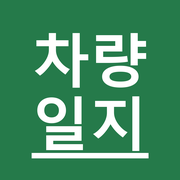
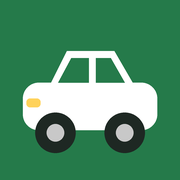
아이콘 집 · 자동차, 이름 나에안식 · 차량일지, 주소 하나로 두 개 이어서 설치(안드로이드 설치 버튼 · 아이폰 안내)

diff --git a/jamsil/index.html b/jamsil/index.html
@@ -3,47 +3,73 @@
 <head>
 <meta charset="utf-8">
 <meta name="viewport" content="width=device-width, initial-scale=1">
-<title>나에안식 잠실 통합업무시스템</title>
-<meta name="apple-mobile-web-app-title" content="통합업무">
-<meta name="application-name" content="통합업무">
+<title>나에안식</title>
+<meta name="apple-mobile-web-app-title" content="나에안식">
+<meta name="application-name" content="나에안식">
 <meta name="theme-color" content="#1f4e79">
 <link rel="apple-touch-icon" href="apple-touch-icon.png">
 <link rel="icon" type="image/png" sizes="192x192" href="icon-192.png">
 <link rel="manifest" href="manifest.json">
 <script>
-  // 홈 화면 아이콘으로 열면(?open) 바로 앱으로. 이 안내 페이지를 처음 열면 주소에 ?open 을 붙여 두어,
-  // 아이폰 「홈 화면에 추가」도 ?open 주소로 저장되게 한다 (안드로이드는 manifest 의 start_url)
+  // 홈 화면 아이콘으로 열면(?open) 바로 앱으로. 설치 안내로 열면 주소에 ?open 을 붙여 두어 아이폰 「홈 화면에 추가」도 ?open 으로 저장되게
   var APP = 'https://script.google.com/a/macros/gscsupport.org/s/AKfycbyXpPF1653Jcdb7gTh4Efq5zx_-NSma935vyzxfqtKJZkl9aTMh83iYis9wJRcfE9nD/exec';
   if (/[?&]open\b/.test(location.search)) location.replace(APP);
   else if (history.replaceState) history.replaceState(null, '', location.pathname + '?open');
+  if ('serviceWorker' in navigator) navigator.serviceWorker.register('sw.js').catch(function () { });
 </script>
 <style>
   body { font-family: -apple-system, "Malgun Gothic", "Apple SD Gothic Neo", sans-serif; margin: 0; background: #f4f6f9; color: #1f2933; }
-  .wrap { max-width: 460px; margin: 0 auto; padding: 28px 18px 40px; text-align: center; }
-  img.ic { width: 96px; height: 96px; border-radius: 22px; box-shadow: 0 4px 14px rgba(0,0,0,.15); }
-  h1 { font-size: 22px; margin: 14px 0 4px; }
-  .sub { color: #5b6773; font-size: 14px; margin: 0 0 20px; }
-  a.go { display: block; background: #1f4e79; color: #fff; text-decoration: none; font-weight: 700; font-size: 17px; padding: 14px; border-radius: 12px; }
-  .how { text-align: left; background: #fff; border: 1px solid #dde3ea; border-radius: 12px; padding: 12px 16px; margin-top: 18px; font-size: 14.5px; line-height: 1.6; }
-  .how h2 { font-size: 15px; margin: 6px 0 4px; }
+  .wrap { max-width: 460px; margin: 0 auto; padding: 24px 18px 40px; text-align: center; }
+  .steps { display: flex; justify-content: center; gap: 8px; margin-bottom: 16px; font-size: 13px; }
+  .steps span { padding: 4px 12px; border-radius: 999px; background: #e3e8ee; color: #5b6773; }
+  .steps span.on { background: #1f4e79; color: #fff; font-weight: 700; }
+  .steps span.done { background: #c8ead6; color: #1c6b3d; }
+  img.ic { width: 104px; height: 104px; border-radius: 24px; box-shadow: 0 4px 14px rgba(0,0,0,.15); }
+  h1 { font-size: 23px; margin: 12px 0 4px; }
+  .sub { color: #5b6773; font-size: 14px; margin: 0 0 18px; }
+  button.go, a.go { display: block; width: 100%; box-sizing: border-box; background: #1f4e79; color: #fff; border: 0; text-decoration: none; font-weight: 700; font-size: 18px; padding: 15px; border-radius: 12px; cursor: pointer; }
+  a.next { display: block; margin-top: 10px; padding: 13px; border-radius: 12px; border: 2px solid #1f4e79; color: #1f4e79; font-weight: 700; text-decoration: none; }
+  .how { text-align: left; background: #fff; border: 1px solid #dde3ea; border-radius: 12px; padding: 12px 16px; margin-top: 16px; font-size: 14.5px; line-height: 1.6; }
+  .how h2 { font-size: 15px; margin: 4px 0 2px; }
   .how ol { margin: 0 0 6px; padding-left: 20px; }
+  .ok { color: #1c6b3d; font-weight: 700; margin-top: 10px; }
   .note { color: #7b8794; font-size: 12.5px; margin-top: 14px; }
+  [hidden] { display: none !important; }
 </style>
 </head>
 <body>
 <div class="wrap">
+  <div class="steps"><span class="on">① 나에안식</span><span class="">② 차량일지</span></div>
   <img class="ic" src="icon-192.png" alt="">
-  <h1>나에안식 잠실 통합업무시스템</h1>
-  <p class="sub">휴대폰 홈 화면에 아이콘으로 저장해 두세요.</p>
-  <a class="go" href="https://script.google.com/a/macros/gscsupport.org/s/AKfycbyXpPF1653Jcdb7gTh4Efq5zx_-NSma935vyzxfqtKJZkl9aTMh83iYis9wJRcfE9nD/exec">지금 열기</a>
-  <div class="how">
-    <h2>📱 안드로이드 (크롬)</h2>
-    <ol><li>오른쪽 위 <b>⋮</b> 누르기</li><li><b>「홈 화면에 추가」</b>(또는 「앱 설치」) → <b>추가</b></li></ol>
-    <h2>🍎 아이폰 (사파리)</h2>
-    <ol><li>아래 가운데 <b>공유 버튼(□↑)</b> 누르기</li><li><b>「홈 화면에 추가」</b> → 오른쪽 위 <b>추가</b></li></ol>
-    홈 화면의 <b>「통합업무」</b> 아이콘을 누르면 바로 열립니다.
+  <h1>나에안식</h1>
+  <p class="sub">나에안식 잠실 통합업무시스템</p>
+  <button type="button" class="go" id="inst" hidden>📲 홈 화면에 설치</button>
+  <div class="ok" id="done" hidden>✅ 설치했어요!</div>
+  <a class="next" href="https://jamsilmb01-ship-it.github.io/jamsil-shortcuts/car/">다음 ② 차량일지 설치 →</a>
+  <div class="how" id="manual">
+    <h2>📱 버튼이 안 보이면 (아이폰 · 다른 브라우저)</h2>
+    <ol>
+      <li>아이폰 사파리: 아래 가운데 <b>공유(□↑)</b> → <b>「홈 화면에 추가」</b> → <b>추가</b></li>
+      <li>안드로이드: 오른쪽 위 <b>⋮</b> → <b>「홈 화면에 추가」</b>(또는 「앱 설치」)</li>
+    </ol>
+    그다음 위의 <b>다음 ② 차량일지 설치 →</b>을 누르세요.
   </div>
   <p class="note">기관 계정(gscsupport.org)으로 로그인해야 열립니다. 이 페이지는 앱으로 넘겨 주기만 하고 아무것도 저장하지 않습니다.</p>
 </div>
+<script>
+  // 안드로이드 크롬: 설치 버튼 한 번으로 홈 화면에 (브라우저가 허락할 때만 버튼이 보임). 설치되면 다음 단계로
+  var ask = null;
+  window.addEventListener('beforeinstallprompt', function (e) { e.preventDefault(); ask = e; document.getElementById('inst').hidden = false; });
+  document.getElementById('inst').onclick = function () {
+    if (!ask) return;
+    ask.prompt();
+    ask.userChoice.then(function (c) { if (c && c.outcome === 'accepted') installed(); ask = null; document.getElementById('inst').hidden = true; });
+  };
+  window.addEventListener('appinstalled', installed);
+  function installed() {
+    document.getElementById('done').hidden = false;
+    setTimeout(function () { location.href = 'https://jamsilmb01-ship-it.github.io/jamsil-shortcuts/car/'; }, 1500);
+  }
+</script>
 </body>
 </html>

diff --git a/car/index.html b/car/index.html
@@ -3,7 +3,7 @@
 <head>
 <meta charset="utf-8">
 <meta name="viewport" content="width=device-width, initial-scale=1">
-<title>나에안식 차량 운행일지</title>
+<title>차량일지</title>
 <meta name="apple-mobile-web-app-title" content="차량일지">
 <meta name="application-name" content="차량일지">
 <meta name="theme-color" content="#257a4a">
@@ -11,39 +11,65 @@
 <link rel="icon" type="image/png" sizes="192x192" href="icon-192.png">
 <link rel="manifest" href="manifest.json">
 <script>
-  // 홈 화면 아이콘으로 열면(?open) 바로 앱으로. 이 안내 페이지를 처음 열면 주소에 ?open 을 붙여 두어,
-  // 아이폰 「홈 화면에 추가」도 ?open 주소로 저장되게 한다 (안드로이드는 manifest 의 start_url)
+  // 홈 화면 아이콘으로 열면(?open) 바로 앱으로. 설치 안내로 열면 주소에 ?open 을 붙여 두어 아이폰 「홈 화면에 추가」도 ?open 으로 저장되게
   var APP = 'https://script.google.com/a/macros/gscsupport.org/s/AKfycbyWBPOMTDsHJAvTrzyhhL7ucnZKRUTfi-W0Df4ViefqFMfe-RC5YSUxYCw4vDWI7NHUTw/exec';
   if (/[?&]open\b/.test(location.search)) location.replace(APP);
   else if (history.replaceState) history.replaceState(null, '', location.pathname + '?open');
+  if ('serviceWorker' in navigator) navigator.serviceWorker.register('sw.js').catch(function () { });
 </script>
 <style>
   body { font-family: -apple-system, "Malgun Gothic", "Apple SD Gothic Neo", sans-serif; margin: 0; background: #f4f6f9; color: #1f2933; }
-  .wrap { max-width: 460px; margin: 0 auto; padding: 28px 18px 40px; text-align: center; }
-  img.ic { width: 96px; height: 96px; border-radius: 22px; box-shadow: 0 4px 14px rgba(0,0,0,.15); }
-  h1 { font-size: 22px; margin: 14px 0 4px; }
-  .sub { color: #5b6773; font-size: 14px; margin: 0 0 20px; }
-  a.go { display: block; background: #257a4a; color: #fff; text-decoration: none; font-weight: 700; font-size: 17px; padding: 14px; border-radius: 12px; }
-  .how { text-align: left; background: #fff; border: 1px solid #dde3ea; border-radius: 12px; padding: 12px 16px; margin-top: 18px; font-size: 14.5px; line-height: 1.6; }
-  .how h2 { font-size: 15px; margin: 6px 0 4px; }
+  .wrap { max-width: 460px; margin: 0 auto; padding: 24px 18px 40px; text-align: center; }
+  .steps { display: flex; justify-content: center; gap: 8px; margin-bottom: 16px; font-size: 13px; }
+  .steps span { padding: 4px 12px; border-radius: 999px; background: #e3e8ee; color: #5b6773; }
+  .steps span.on { background: #257a4a; color: #fff; font-weight: 700; }
+  .steps span.done { background: #c8ead6; color: #1c6b3d; }
+  img.ic { width: 104px; height: 104px; border-radius: 24px; box-shadow: 0 4px 14px rgba(0,0,0,.15); }
+  h1 { font-size: 23px; margin: 12px 0 4px; }
+  .sub { color: #5b6773; font-size: 14px; margin: 0 0 18px; }
+  button.go, a.go { display: block; width: 100%; box-sizing: border-box; background: #257a4a; color: #fff; border: 0; text-decoration: none; font-weight: 700; font-size: 18px; padding: 15px; border-radius: 12px; cursor: pointer; }
+  a.next { display: block; margin-top: 10px; padding: 13px; border-radius: 12px; border: 2px solid #257a4a; color: #257a4a; font-weight: 700; text-decoration: none; }
+  .how { text-align: left; background: #fff; border: 1px solid #dde3ea; border-radius: 12px; padding: 12px 16px; margin-top: 16px; font-size: 14.5px; line-height: 1.6; }
+  .how h2 { font-size: 15px; margin: 4px 0 2px; }
   .how ol { margin: 0 0 6px; padding-left: 20px; }
+  .ok { color: #1c6b3d; font-weight: 700; margin-top: 10px; }
   .note { color: #7b8794; font-size: 12.5px; margin-top: 14px; }
+  [hidden] { display: none !important; }
 </style>
 </head>
 <body>
 <div class="wrap">
+  <div class="steps"><span class="done">① 나에안식</span><span class="on">② 차량일지</span></div>
   <img class="ic" src="icon-192.png" alt="">
-  <h1>나에안식 차량 운행일지</h1>
-  <p class="sub">휴대폰 홈 화면에 아이콘으로 저장해 두세요.</p>
-  <a class="go" href="https://script.google.com/a/macros/gscsupport.org/s/AKfycbyWBPOMTDsHJAvTrzyhhL7ucnZKRUTfi-W0Df4ViefqFMfe-RC5YSUxYCw4vDWI7NHUTw/exec">지금 열기</a>
-  <div class="how">
-    <h2>📱 안드로이드 (크롬)</h2>
-    <ol><li>오른쪽 위 <b>⋮</b> 누르기</li><li><b>「홈 화면에 추가」</b>(또는 「앱 설치」) → <b>추가</b></li></ol>
-    <h2>🍎 아이폰 (사파리)</h2>
-    <ol><li>아래 가운데 <b>공유 버튼(□↑)</b> 누르기</li><li><b>「홈 화면에 추가」</b> → 오른쪽 위 <b>추가</b></li></ol>
-    홈 화면의 <b>「차량일지」</b> 아이콘을 누르면 바로 열립니다.
+  <h1>차량일지</h1>
+  <p class="sub">나에안식 차량 운행일지</p>
+  <button type="button" class="go" id="inst" hidden>📲 홈 화면에 설치</button>
+  <div class="ok" id="done" hidden>✅ 설치했어요!</div>
+  <a class="next" href="https://jamsilmb01-ship-it.github.io/jamsil-shortcuts/jamsil/">← ① 나에안식으로 돌아가기</a>
+  <div class="how" id="manual">
+    <h2>📱 버튼이 안 보이면 (아이폰 · 다른 브라우저)</h2>
+    <ol>
+      <li>아이폰 사파리: 아래 가운데 <b>공유(□↑)</b> → <b>「홈 화면에 추가」</b> → <b>추가</b></li>
+      <li>안드로이드: 오른쪽 위 <b>⋮</b> → <b>「홈 화면에 추가」</b>(또는 「앱 설치」)</li>
+    </ol>
+    그다음 위의 <b>← ① 나에안식으로 돌아가기</b>을 누르세요.
   </div>
   <p class="note">기관 계정(gscsupport.org)으로 로그인해야 열립니다. 이 페이지는 앱으로 넘겨 주기만 하고 아무것도 저장하지 않습니다.</p>
 </div>
+<script>
+  // 안드로이드 크롬: 설치 버튼 한 번으로 홈 화면에 (브라우저가 허락할 때만 버튼이 보임). 설치되면 다음 단계로
+  var ask = null;
+  window.addEventListener('beforeinstallprompt', function (e) { e.preventDefault(); ask = e; document.getElementById('inst').hidden = false; });
+  document.getElementById('inst').onclick = function () {
+    if (!ask) return;
+    ask.prompt();
+    ask.userChoice.then(function (c) { if (c && c.outcome === 'accepted') installed(); ask = null; document.getElementById('inst').hidden = true; });
+  };
+  window.addEventListener('appinstalled', installed);
+  function installed() {
+    document.getElementById('done').hidden = false;
+    document.querySelector('.steps span.on').className = 'done';
+  }
+</script>
 </body>
 </html>

diff --git a/index.html b/index.html
@@ -1,1 +1,1 @@
-<!doctype html><meta charset="utf-8"><meta name="viewport" content="width=device-width, initial-scale=1"><title>나에안식 잠실 바로가기</title><body style="font-family:sans-serif;max-width:420px;margin:30px auto;padding:0 18px"><h2>나에안식 잠실 바로가기</h2><p><a href="jamsil/" style="display:flex;align-items:center;gap:12px;text-decoration:none;color:#1f2933;font-size:18px;font-weight:700"><img src="jamsil/icon-192.png" width="56" height="56" style="border-radius:12px">나에안식 잠실 통합업무시스템</a></p><p><a href="car/" style="display:flex;align-items:center;gap:12px;text-decoration:none;color:#1f2933;font-size:18px;font-weight:700"><img src="car/icon-192.png" width="56" height="56" style="border-radius:12px">나에안식 차량 운행일지</a></p><p style="color:#7b8794;font-size:13px">누른 뒤 안내대로 홈 화면에 추가하세요.</p></body>
+<!doctype html><meta charset="utf-8"><title>나에안식 바로가기</title><script>location.replace("https://jamsilmb01-ship-it.github.io/jamsil-shortcuts/jamsil/");</script><a href="jamsil/">나에안식 바로가기 설치 →</a>

diff --git a/car/sw.js b/car/sw.js
@@ -1,0 +1,3 @@
+self.addEventListener('install', function () { self.skipWaiting(); });
+self.addEventListener('activate', function (e) { e.waitUntil(self.clients.claim()); });
+self.addEventListener('fetch', function (e) { e.respondWith(fetch(e.request)); });

diff --git a/jamsil/sw.js b/jamsil/sw.js
@@ -1,0 +1,3 @@
+self.addEventListener('install', function () { self.skipWaiting(); });
+self.addEventListener('activate', function (e) { e.waitUntil(self.clients.claim()); });
+self.addEventListener('fetch', function (e) { e.respondWith(fetch(e.request)); });

diff --git a/build.py b/build.py
@@ -1,9 +1,13 @@
-# 바로가기 페이지 만들기: python build.py → jamsil/ · car/ 의 index.html · manifest.json
+# 바로가기 페이지: python build.py → jamsil/ · car/ (index.html · manifest.json · sw.js) + 맨 위 index.html(① 로 보냄)
+# 주소 하나(맨 위)로 ① 나에안식 → ② 차량일지 를 이어서 설치 (휴대폰은 설치 버튼 한 번에 앱 하나만 허락)
 import json
+BASE = 'https://jamsilmb01-ship-it.github.io/jamsil-shortcuts/'
 APPS = {
-  'jamsil': {'TITLE': '나에안식 잠실 통합업무시스템', 'SHORT': '통합업무', 'COLOR': '#1f4e79',
+  'jamsil': {'TITLE': '나에안식 잠실 통합업무시스템', 'SHORT': '나에안식', 'COLOR': '#1f4e79', 'S1': 'on', 'S2': '',
+             'NEXT': BASE + 'car/', 'NEXTLABEL': '다음 ② 차량일지 설치 →', 'AFTER': "setTimeout(function () { location.href = '" + BASE + "car/'; }, 1500);",
              'URL': 'https://script.google.com/a/macros/gscsupport.org/s/AKfycbyXpPF1653Jcdb7gTh4Efq5zx_-NSma935vyzxfqtKJZkl9aTMh83iYis9wJRcfE9nD/exec'},
-  'car':    {'TITLE': '나에안식 차량 운행일지', 'SHORT': '차량일지', 'COLOR': '#257a4a',
+  'car':    {'TITLE': '나에안식 차량 운행일지', 'SHORT': '차량일지', 'COLOR': '#257a4a', 'S1': 'done', 'S2': 'on',
+             'NEXT': BASE + 'jamsil/', 'NEXTLABEL': '← ① 나에안식으로 돌아가기', 'AFTER': "document.querySelector('.steps span.on').className = 'done';",
              'URL': 'https://script.google.com/a/macros/gscsupport.org/s/AKfycbyWBPOMTDsHJAvTrzyhhL7ucnZKRUTfi-W0Df4ViefqFMfe-RC5YSUxYCw4vDWI7NHUTw/exec'},
 }
 tpl = open('page.tpl', encoding='utf-8').read()
@@ -11,12 +15,15 @@ for k, c in APPS.items():
   h = tpl
   for n, v in c.items(): h = h.replace('{{' + n + '}}', v)
   open(f'{k}/index.html', 'w', encoding='utf-8').write(h)
-  json.dump({'name': c['TITLE'], 'short_name': c['SHORT'], 'start_url': './?open', 'scope': './', 'display': 'browser',
+  json.dump({'id': './', 'name': c['TITLE'], 'short_name': c['SHORT'], 'start_url': './?open', 'scope': './', 'display': 'standalone',
              'background_color': '#ffffff', 'theme_color': c['COLOR'],
-             'icons': [{'src': 'icon-192.png', 'sizes': '192x192', 'type': 'image/png'}, {'src': 'icon-512.png', 'sizes': '512x512', 'type': 'image/png'}]},
+             'icons': [{'src': 'icon-192.png', 'sizes': '192x192', 'type': 'image/png', 'purpose': 'any'},
+                       {'src': 'icon-512.png', 'sizes': '512x512', 'type': 'image/png', 'purpose': 'any'}]},
             open(f'{k}/manifest.json', 'w', encoding='utf-8'), ensure_ascii=False, indent=2)
-open('index.html', 'w', encoding='utf-8').write('<!doctype html><meta charset="utf-8"><meta name="viewport" content="width=device-width, initial-scale=1"><title>나에안식 잠실 바로가기</title>'
-  '<body style="font-family:sans-serif;max-width:420px;margin:30px auto;padding:0 18px"><h2>나에안식 잠실 바로가기</h2>'
-  + ''.join(f'<p><a href="{k}/" style="display:flex;align-items:center;gap:12px;text-decoration:none;color:#1f2933;font-size:18px;font-weight:700"><img src="{k}/icon-192.png" width="56" height="56" style="border-radius:12px">{c["TITLE"]}</a></p>' for k, c in APPS.items())
-  + '<p style="color:#7b8794;font-size:13px">누른 뒤 안내대로 홈 화면에 추가하세요.</p></body>')
+  # 설치 조건용 서비스 워커 (저장 · 오프라인 없음, 받은 요청을 그대로 넘김)
+  open(f'{k}/sw.js', 'w', encoding='utf-8').write("self.addEventListener('install', function () { self.skipWaiting(); });\n"
+    "self.addEventListener('activate', function (e) { e.waitUntil(self.clients.claim()); });\n"
+    "self.addEventListener('fetch', function (e) { e.respondWith(fetch(e.request)); });\n")
+open('index.html', 'w', encoding='utf-8').write('<!doctype html><meta charset="utf-8"><title>나에안식 바로가기</title>'
+  '<script>location.replace("' + BASE + 'jamsil/");</script><a href="jamsil/">나에안식 바로가기 설치 →</a>')
 print('ok')

diff --git a/make_icons.py b/make_icons.py
@@ -1,24 +1,32 @@
-# 홈 화면 아이콘 만들기: 색 바탕(둥근 네모) + 굵은 글자 두 줄. python make_icons.py
-from PIL import Image, ImageDraw, ImageFont
-FONT = r"C:\Windows\Fonts\malgunbd.ttf"
-APPS = {
-  'jamsil': {'bg': (31, 78, 121), 'lines': ['통합', '업무'], 'accent': (255, 192, 0)},
-  'car':    {'bg': (37, 122, 74), 'lines': ['차량', '일지'], 'accent': (255, 255, 255)},
-}
-def make(key, cfg):
-  S = 1024
-  im = Image.new('RGBA', (S, S), (0, 0, 0, 0))
-  d = ImageDraw.Draw(im)
-  d.rounded_rectangle([0, 0, S, S], radius=220, fill=cfg['bg'])   # 아이폰은 모서리를 알아서 깎지만 안드로이드용으로 둥글게
-  d.rectangle([180, 870, S - 180, 900], fill=cfg['accent'])          # 아래 띠
-  f = ImageFont.truetype(FONT, 330)
-  for i, t in enumerate(cfg['lines']):
-    w = d.textlength(t, font=f)
-    d.text(((S - w) / 2, 110 + i * 360), t, font=f, fill=(255, 255, 255))
-  for size, name in [(512, 'icon-512.png'), (192, 'icon-192.png'), (180, 'apple-touch-icon.png')]:
+# 홈 화면 아이콘: 색 바탕(둥근 네모) + 그림(나에안식 = 집, 차량일지 = 자동차). python make_icons.py
+from PIL import Image, ImageDraw
+S = 1024
+def base(bg):
+  im = Image.new('RGBA', (S, S), (0, 0, 0, 0)); d = ImageDraw.Draw(im)
+  d.rounded_rectangle([0, 0, S, S], radius=220, fill=bg)
+  return im, d
+def house():
+  im, d = base((31, 78, 121)); W = (255, 255, 255); Y = (255, 192, 0)
+  d.polygon([(512, 170), (140, 500), (884, 500)], fill=W)                 # 지붕
+  d.rectangle([640, 230, 730, 400], fill=W)                               # 굴뚝
+  d.rectangle([230, 470, 794, 850], fill=W)                               # 몸통
+  d.rounded_rectangle([445, 600, 579, 850], radius=24, fill=Y)            # 문
+  d.rectangle([290, 560, 395, 665], fill=(31, 78, 121)); d.rectangle([629, 560, 734, 665], fill=(31, 78, 121))   # 창
+  return im
+def car():
+  G = (37, 122, 74); im, d = base(G); W = (255, 255, 255)
+  d.rounded_rectangle([130, 470, 894, 740], radius=90, fill=W)            # 몸통
+  d.polygon([(285, 480), (380, 290), (650, 290), (760, 480)], fill=W)     # 지붕
+  d.polygon([(330, 470), (405, 330), (505, 330), (505, 470)], fill=G)     # 앞창
+  d.polygon([(545, 470), (545, 330), (630, 330), (710, 470)], fill=G)     # 뒷창
+  for cx in (315, 709):                                                   # 바퀴
+    d.ellipse([cx - 115, 640, cx + 115, 870], fill=(30, 40, 35)); d.ellipse([cx - 50, 705, cx + 50, 805], fill=(200, 200, 200))
+  d.rounded_rectangle([150, 560, 230, 610], radius=20, fill=(255, 210, 90))  # 등
+  return im
+for key, im in (('jamsil', house()), ('car', car())):
+  bg = im.getpixel((S // 2, 40))[:3]
+  for size, name in [(512, 'icon-512.png'), (192, 'icon-192.png')]:
     im.resize((size, size), Image.LANCZOS).save(f'{key}/{name}')
-  # 아이폰 apple-touch-icon 은 투명을 검게 채우므로 바탕을 꽉 채운 판도 따로
-  full = Image.new('RGB', (S, S), cfg['bg']); full.paste(im, (0, 0), im)
+  full = Image.new('RGB', (S, S), bg); full.paste(im, (0, 0), im)          # 아이폰용은 바탕을 꽉 채움
   full.resize((180, 180), Image.LANCZOS).save(f'{key}/apple-touch-icon.png')
-for k, c in APPS.items(): make(k, c)
 print('ok')

diff --git a/README.md b/README.md
@@ -3,8 +3,8 @@
 통합업무시스템 · 차량 운행일지를 휴대폰 홈 화면에 **아이콘으로** 저장하기 위한 작은 페이지 (GitHub Pages).
 Apps Script 웹앱은 구글 페이지 안에 싸여 열려서 홈 화면 아이콘을 직접 넣을 수 없어, 이 페이지가 아이콘을 들고 앱으로 넘겨 준다.
 
-- 주소: https://jamsilmb01-ship-it.github.io/jamsil-shortcuts/ (jamsil/ · car/)
-- 처음 열면 안내 + 주소에 `?open` 을 붙여 둠 → 그대로 홈 화면에 추가하면 아이콘으로 열 때 바로 앱으로
+- 주소 하나: https://jamsilmb01-ship-it.github.io/jamsil-shortcuts/ → ① 나에안식(집) 설치 → ② 차량일지(자동차) 설치로 이어짐
+- 안드로이드 크롬: [📲 홈 화면에 설치] 버튼 한 번(PWA, manifest · sw.js). 아이폰: 공유 → 홈 화면에 추가 안내. 설치 안내로 열면 주소에 ?open 을 붙여 두어 아이콘으로 열 때 바로 앱으로
 - 개인정보 없음: 앱 주소로 넘겨 주기만 함 (앱은 기관 계정만 열림)
 - 고칠 때: 아이콘 `python make_icons.py`, 페이지 `python build.py` (page.tpl · APPS) → 커밋 · push 하면 1~2분 뒤 반영
 - 앱 배포ID가 바뀌면 build.py 의 URL 을 고친다 (보통 --deploymentId 로 배포해서 안 바뀜)
